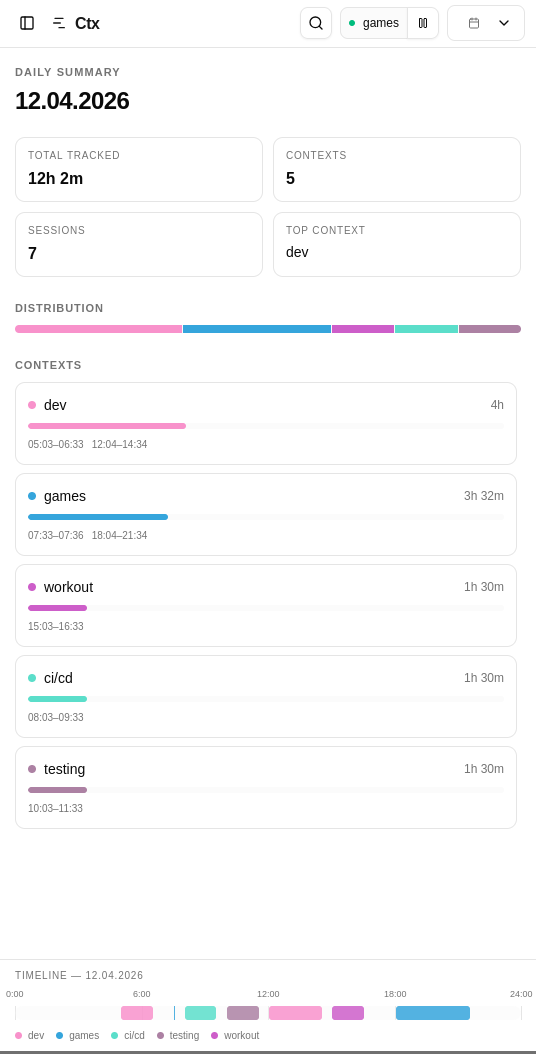
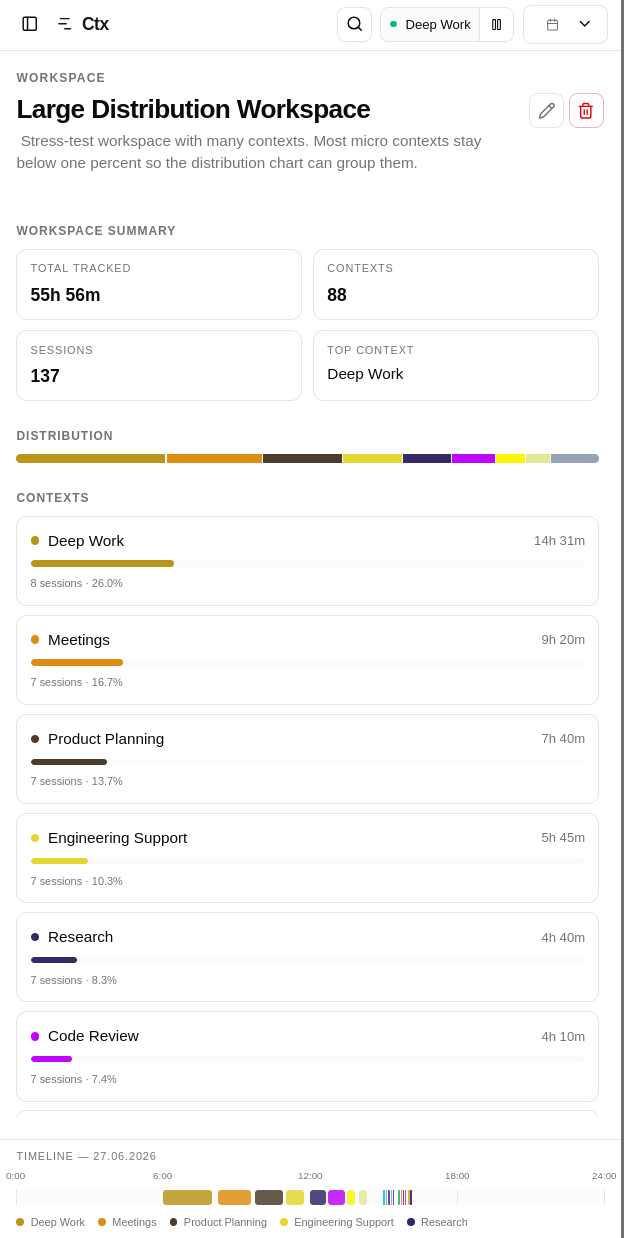
wip

diff --git a/README.md b/README.md
@@ -2,8 +2,10 @@
 
 A lightweight time tracker: CLI + Go server + optional Angular web UI. It works in local mode (SQLite), remote mode (remote API), and all-in-one mode with embedded SPA assets.
 
-![Desktop](.img/desktop.png)
-![Mobile](.img/mobile.png)
+<p align="center">
+  <img src=".img/desktop.png" alt="Desktop" width="66%">
+  <img src=".img/mobile.png" alt="Mobile" width="30%">
+</p>
 
 ## 1) CLI usage examples
 